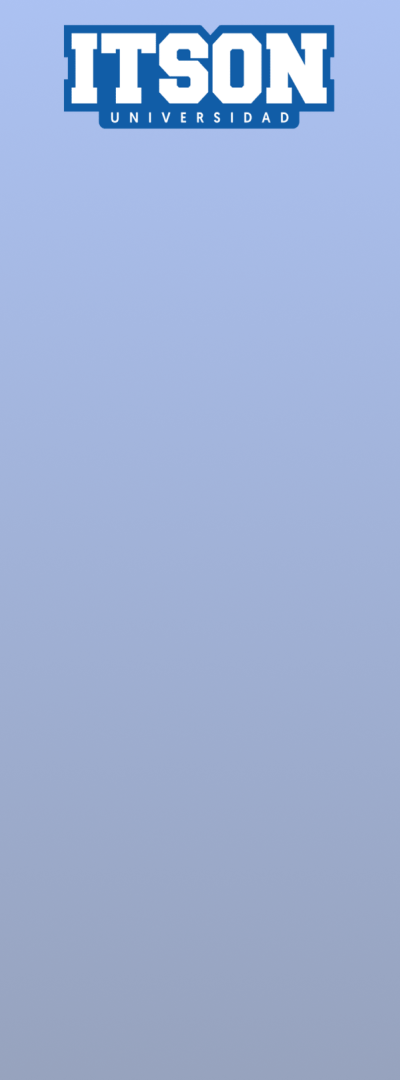
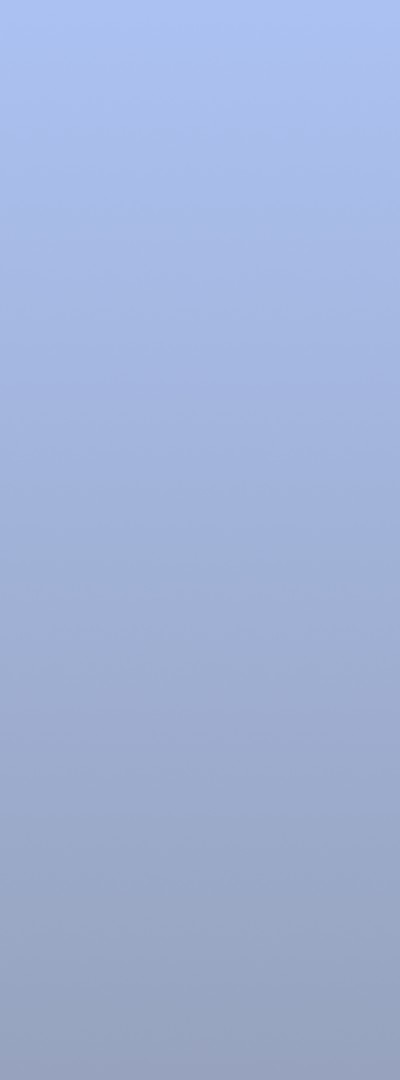
push

Changed region(s): [[0.15, 0.0, 0.84, 0.1222]]

diff --git a/CiscoPresentation/src/main/java/frames/FrmStudentManager.java b/CiscoPresentation/src/main/java/frames/FrmStudentManager.java
@@ -18,7 +18,6 @@ public class FrmStudentManager extends javax.swing.JFrame {
      */
     public FrmStudentManager() {
         initComponents();
-        this.setExtendedState(JFrame.MAXIMIZED_BOTH);
     }
 
     /**
@@ -33,21 +32,8 @@ public class FrmStudentManager extends javax.swing.JFrame {
         jPanel1 = new javax.swing.JPanel();
         jPanel3 = new javax.swing.JPanel();
         panelMenu2 = new panels.PanelMenu();
-        jLabel9 = new javax.swing.JLabel();
-        jLabel10 = new javax.swing.JLabel();
-        jLabel11 = new javax.swing.JLabel();
-        jLabel12 = new javax.swing.JLabel();
-        jLabel13 = new javax.swing.JLabel();
-        jLabel14 = new javax.swing.JLabel();
-        jLabel15 = new javax.swing.JLabel();
-        jLabel16 = new javax.swing.JLabel();
-        jLabel17 = new javax.swing.JLabel();
+        jLabel2 = new javax.swing.JLabel();
         jLabel18 = new javax.swing.JLabel();
-        jLabel19 = new javax.swing.JLabel();
-        jLabel20 = new javax.swing.JLabel();
-        jLabel21 = new javax.swing.JLabel();
-        jLabel22 = new javax.swing.JLabel();
-        jLabel23 = new javax.swing.JLabel();
         btnMenuStudents = new utilities.MenuButton();
         jLabel24 = new javax.swing.JLabel();
         btnMenuDegrees = new utilities.MenuButton();
@@ -90,50 +76,11 @@ public class FrmStudentManager extends javax.swing.JFrame {
 
         jPanel1.setLayout(new java.awt.BorderLayout());
 
-        jLabel9.setIcon(new javax.swing.ImageIcon(getClass().getResource("/images/lineaBlanca.png"))); // NOI18N
-        panelMenu2.add(jLabel9);
-
-        jLabel10.setIcon(new javax.swing.ImageIcon(getClass().getResource("/images/lineaBlanca.png"))); // NOI18N
-        panelMenu2.add(jLabel10);
-
-        jLabel11.setIcon(new javax.swing.ImageIcon(getClass().getResource("/images/lineaBlanca.png"))); // NOI18N
-        panelMenu2.add(jLabel11);
-
-        jLabel12.setIcon(new javax.swing.ImageIcon(getClass().getResource("/images/lineaBlanca.png"))); // NOI18N
-        panelMenu2.add(jLabel12);
-
-        jLabel13.setIcon(new javax.swing.ImageIcon(getClass().getResource("/images/lineaBlanca.png"))); // NOI18N
-        panelMenu2.add(jLabel13);
-
-        jLabel14.setIcon(new javax.swing.ImageIcon(getClass().getResource("/images/lineaBlanca.png"))); // NOI18N
-        panelMenu2.add(jLabel14);
-
-        jLabel15.setIcon(new javax.swing.ImageIcon(getClass().getResource("/images/lineaBlanca.png"))); // NOI18N
-        panelMenu2.add(jLabel15);
-
-        jLabel16.setIcon(new javax.swing.ImageIcon(getClass().getResource("/images/lineaBlanca.png"))); // NOI18N
-        panelMenu2.add(jLabel16);
-
-        jLabel17.setIcon(new javax.swing.ImageIcon(getClass().getResource("/images/lineaBlanca.png"))); // NOI18N
-        panelMenu2.add(jLabel17);
+        jLabel2.setIcon(new javax.swing.ImageIcon(getClass().getResource("/images/ItsonLogo.png"))); // NOI18N
+        panelMenu2.add(jLabel2);
 
         jLabel18.setIcon(new javax.swing.ImageIcon(getClass().getResource("/images/lineaBlanca.png"))); // NOI18N
         panelMenu2.add(jLabel18);
-
-        jLabel19.setIcon(new javax.swing.ImageIcon(getClass().getResource("/images/lineaBlanca.png"))); // NOI18N
-        panelMenu2.add(jLabel19);
-
-        jLabel20.setIcon(new javax.swing.ImageIcon(getClass().getResource("/images/lineaBlanca.png"))); // NOI18N
-        panelMenu2.add(jLabel20);
-
-        jLabel21.setIcon(new javax.swing.ImageIcon(getClass().getResource("/images/lineaBlanca.png"))); // NOI18N
-        panelMenu2.add(jLabel21);
-
-        jLabel22.setIcon(new javax.swing.ImageIcon(getClass().getResource("/images/lineaBlanca.png"))); // NOI18N
-        panelMenu2.add(jLabel22);
-
-        jLabel23.setIcon(new javax.swing.ImageIcon(getClass().getResource("/images/lineaBlanca.png"))); // NOI18N
-        panelMenu2.add(jLabel23);
 
         btnMenuStudents.setForeground(new java.awt.Color(255, 255, 255));
         btnMenuStudents.setText("Estudiantes");
@@ -407,6 +354,18 @@ public class FrmStudentManager extends javax.swing.JFrame {
         pack();
     }// </editor-fold>//GEN-END:initComponents
 
+    private void btnDeleteActionPerformed(java.awt.event.ActionEvent evt) {//GEN-FIRST:event_btnDeleteActionPerformed
+        // TODO add your handling code here:
+    }//GEN-LAST:event_btnDeleteActionPerformed
+
+    private void btnAddActionPerformed(java.awt.event.ActionEvent evt) {//GEN-FIRST:event_btnAddActionPerformed
+        // TODO add your handling code here:
+    }//GEN-LAST:event_btnAddActionPerformed
+
+    private void menuButton2ActionPerformed(java.awt.event.ActionEvent evt) {//GEN-FIRST:event_menuButton2ActionPerformed
+        // TODO add your handling code here:
+    }//GEN-LAST:event_menuButton2ActionPerformed
+
     private void btnMenuDegreesActionPerformed(java.awt.event.ActionEvent evt) {//GEN-FIRST:event_btnMenuDegreesActionPerformed
         // TODO add your handling code here:
     }//GEN-LAST:event_btnMenuDegreesActionPerformed
@@ -446,18 +405,6 @@ public class FrmStudentManager extends javax.swing.JFrame {
     private void btnMenuLogOffActionPerformed(java.awt.event.ActionEvent evt) {//GEN-FIRST:event_btnMenuLogOffActionPerformed
         // TODO add your handling code here:
     }//GEN-LAST:event_btnMenuLogOffActionPerformed
-
-    private void btnDeleteActionPerformed(java.awt.event.ActionEvent evt) {//GEN-FIRST:event_btnDeleteActionPerformed
-        // TODO add your handling code here:
-    }//GEN-LAST:event_btnDeleteActionPerformed
-
-    private void btnAddActionPerformed(java.awt.event.ActionEvent evt) {//GEN-FIRST:event_btnAddActionPerformed
-        // TODO add your handling code here:
-    }//GEN-LAST:event_btnAddActionPerformed
-
-    private void menuButton2ActionPerformed(java.awt.event.ActionEvent evt) {//GEN-FIRST:event_menuButton2ActionPerformed
-        // TODO add your handling code here:
-    }//GEN-LAST:event_menuButton2ActionPerformed
  
 
 
@@ -477,20 +424,8 @@ public class FrmStudentManager extends javax.swing.JFrame {
     private utilities.MenuButton btnMenuSoftware;
     private utilities.MenuButton btnMenuStudents;
     private javax.swing.JComboBox<DegreeDTO> cbDegrees;
-    private javax.swing.JLabel jLabel10;
-    private javax.swing.JLabel jLabel11;
-    private javax.swing.JLabel jLabel12;
-    private javax.swing.JLabel jLabel13;
-    private javax.swing.JLabel jLabel14;
-    private javax.swing.JLabel jLabel15;
-    private javax.swing.JLabel jLabel16;
-    private javax.swing.JLabel jLabel17;
     private javax.swing.JLabel jLabel18;
-    private javax.swing.JLabel jLabel19;
-    private javax.swing.JLabel jLabel20;
-    private javax.swing.JLabel jLabel21;
-    private javax.swing.JLabel jLabel22;
-    private javax.swing.JLabel jLabel23;
+    private javax.swing.JLabel jLabel2;
     private javax.swing.JLabel jLabel24;
     private javax.swing.JLabel jLabel25;
     private javax.swing.JLabel jLabel26;
@@ -502,7 +437,6 @@ public class FrmStudentManager extends javax.swing.JFrame {
     private javax.swing.JLabel jLabel32;
     private javax.swing.JLabel jLabel33;
     private javax.swing.JLabel jLabel34;
-    private javax.swing.JLabel jLabel9;
     private javax.swing.JPanel jPanel1;
     private javax.swing.JPanel jPanel2;
     private javax.swing.JPanel jPanel3;

diff --git a/CiscoPresentation/src/main/java/panels/PanelMenu.java b/CiscoPresentation/src/main/java/panels/PanelMenu.java
@@ -20,7 +20,7 @@ public class PanelMenu extends JPanel{
         // Load the image from the specified path
         ImageIcon icon = new ImageIcon(getClass().getResource("/images/menu.png"));
         image = icon.getImage();
-        this.setSize(400, 1080);
+        this.setSize(250, 1080);
     }
 
     @Override
